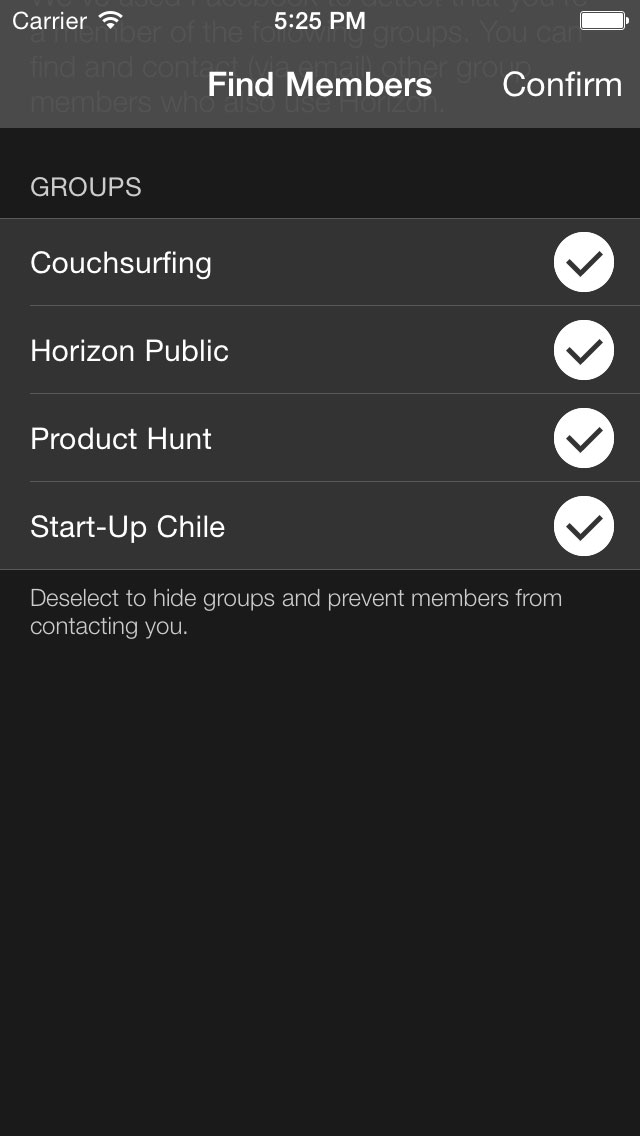
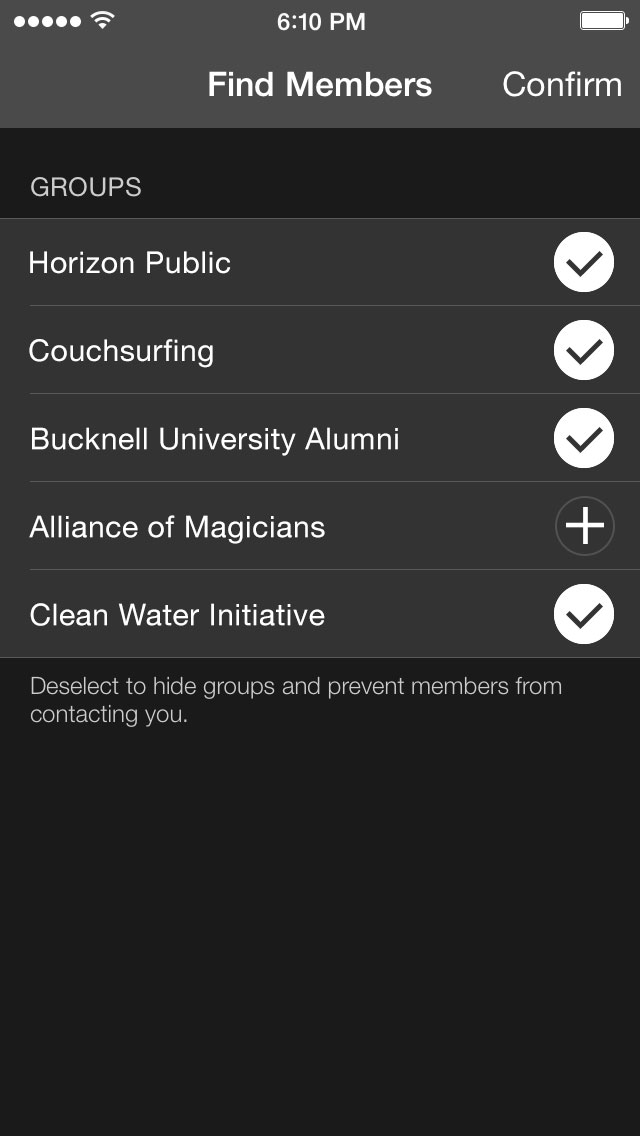
updates landing pages with new screenshots

diff --git a/index.html b/index.html
@@ -211,7 +211,7 @@ layout: blank
 
       <div class="grid__item one-whole desk-one-fourth">
         <p class="desk-hide text-center" style="margin-top: 5rem; font-weight: 700; padding-left: 1rem; padding-right: 1rem;">Ask for a place to crash on your next trip</p>
-        <img class="screen-image" src="/product-hunt/img/horizon-screen-shannon.jpg" alt="">
+        <img class="screen-image" src="/product-hunt/img/horizon-screen-casey.jpg" alt="">
       </div>   
       <div class="grid__item one-whole desk-three-fourths desk-show">
         <div class="screen-info screen-info--2"><span>Ask for a place to crash on your next trip</span></div>

diff --git a/kiva/index.html b/kiva/index.html
@@ -241,7 +241,7 @@ layout: blank
 
       <div class="grid__item one-whole desk-one-fourth">
         <p class="desk-hide text-center" style="margin-top: 5rem; font-weight: 700; padding-left: 1rem; padding-right: 1rem;">Ask for a place to crash on your next trip</p>
-        <img class="screen-image" src="/product-hunt/img/horizon-screen-shannon.jpg" alt="">
+        <img class="screen-image" src="/product-hunt/img/horizon-screen-casey.jpg" alt="">
       </div>   
       <div class="grid__item one-whole desk-three-fourths desk-show">
         <div class="screen-info screen-info--2"><span>Ask for a place to crash on your next trip</span></div>

diff --git a/product-hunt/index.html b/product-hunt/index.html
@@ -241,7 +241,7 @@ layout: blank
 
       <div class="grid__item one-whole desk-one-fourth">
         <p class="desk-hide text-center" style="margin-top: 5rem; font-weight: 700; padding-left: 1rem; padding-right: 1rem;">Ask for a place to crash on your next trip</p>
-        <img class="screen-image" src="/product-hunt/img/horizon-screen-shannon.jpg" alt="">
+        <img class="screen-image" src="/product-hunt/img/horizon-screen-casey.jpg" alt="">
       </div>   
       <div class="grid__item one-whole desk-three-fourths desk-show">
         <div class="screen-info screen-info--2"><span>Ask for a place to crash on your next trip</span></div>

diff --git a/special-sneak-peek/index.html b/special-sneak-peek/index.html
@@ -241,7 +241,7 @@ layout: blank
 
       <div class="grid__item one-whole desk-one-fourth">
         <p class="desk-hide text-center" style="margin-top: 5rem; font-weight: 700; padding-left: 1rem; padding-right: 1rem;">Ask for a place to crash on your next trip</p>
-        <img class="screen-image" src="/product-hunt/img/horizon-screen-shannon.jpg" alt="">
+        <img class="screen-image" src="/product-hunt/img/horizon-screen-casey.jpg" alt="">
       </div>   
       <div class="grid__item one-whole desk-three-fourths desk-show">
         <div class="screen-info screen-info--2"><span>Ask for a place to crash on your next trip</span></div>
